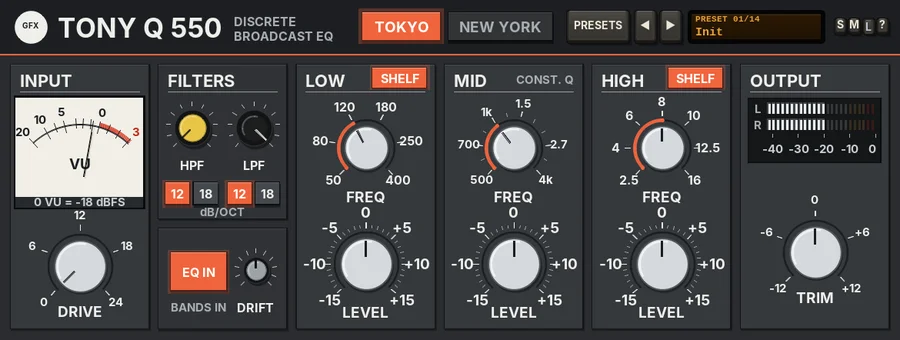
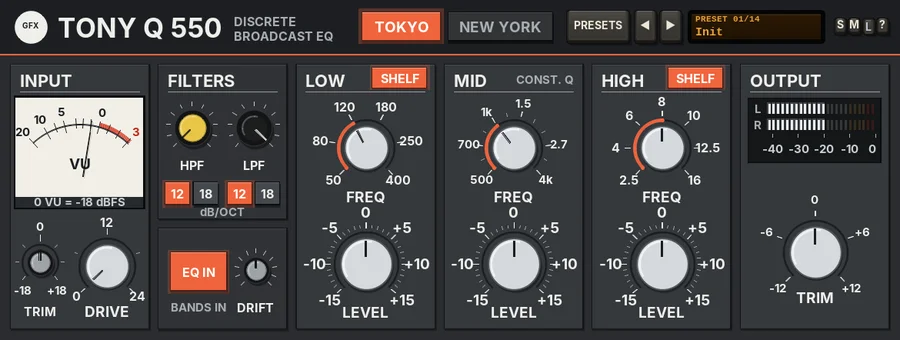
Tony Q 550: INPUT TRIM (-18..+18 dB) before the VU and DRIVE
Appended slider33, 20 ms two-pole glide, small silver cap with a bipolar
ring in the INPUT section. Presets leave it alone; Reset all sets it to 0.
Trim 0 nulls bit-identical against main. Manual and screenshot updated.

Claude-Session: https://claude.ai/code/session_01EwsggPNgywXX6HG8VAWiaU

Changed region(s): [[0.0, 0.6176, 0.1867, 0.9412], [0.0933, 0.3824, 0.1244, 0.4706], [0.0311, 0.6471, 0.0622, 0.6765]]

diff --git a/Manuals/gfx-tony-q-550.html b/Manuals/gfx-tony-q-550.html
@@ -47,8 +47,8 @@ footer{border-top:1px solid var(--line);margin-top:40px;padding:24px 0 40px;colo
 <div class="shot"><img src="img/gfx-tony-q-550.webp" alt="The Tony Q 550 panel" loading="lazy"></div>
 <h2>Overview</h2><p>Tony Q 550 is a channel equaliser with three stepped bands (LOW, MID and HIGH), a high-pass and a low-pass filter, a discrete preamp you can drive and an output stage with real character. Two CITY keys switch between two complete engines, each with its own faceplate and its own settings.</p><p>TOKYO is in the spirit of the Japanese discrete broadcast consoles. Its bells are constant-Q: the width never changes with the gain. The midrange is the star, with twelve steps from 500 Hz to 4 kHz, and it feeds a mid-focused output transformer: only the 400 Hz - 5 kHz part of the signal goes through the iron, so a pushed mid blooms and gently compresses while the kick, the bass and the air stay clean. The faceplate is charcoal with white print.</p><p>NEW YORK is in the spirit of the classic American stepped three-band console EQ. Its bells are proportional-Q: wide and musical at small boosts (about 0.6 at 2 dB), getting narrower as you push them (about 2.5 at 12 dB), on the classic stepped frequency and gain layout. It runs into a fast discrete op-amp, clean until it nears its rails and then a hard knee, and an output transformer that thickens the low end first. Transients come forward and punch. The faceplate is blue-grey with cream print.</p><p>The whole engine runs at twice the sample rate, so the saturation stays clean at the top. Every stepped switch glides to its new value, so nothing clicks as you turn it.</p>
 <h3>Reach for it for</h3><ul class="when"><li>Vocals that need presence and bite without harshness (TOKYO's mids into the iron)</li><li>Guitars and keys that should bloom and sit forward in the midrange</li><li>Punchy kick, snare and bass shaping (NEW YORK)</li><li>Drum buses and mix buses that want a little console weight</li><li>Quick, decisive EQ moves on a stepped layout that is hard to overdo</li><li>Adding colour with INPUT DRIVE, with the EQ flat</li></ul>
-<h2>Controls</h2><h3>The header</h3><dl class="ctl"><dt>TOKYO / NEW YORK</dt><dd>The CITY keys. The lit key is the engine you hear and the faceplate you see. Each city keeps its own settings, so you can set up both and switch to compare. A change starts the other engine, lets it settle for 40 ms and crossfades to it in 30 ms, with no click. The two engines are phase-matched, so the crossfade never combs. TOKYO by default.</dd><dt>PRESETS</dt><dd>Opens the full preset list. The last entry, Reset all to defaults, loads Init and also sets DRIFT to 50%.</dd><dt>◄ / ►</dt><dd>Step to the previous or next preset (wrapping round).</dd><dt>Preset display</dt><dd>Shows the preset number and name. Click it for the preset list too. While you move a control, it shows that control's name and value for a moment.</dd><dt>S / M / L</dt><dd>Panel size: small, medium or large. The panel also scales to fit the plugin window.</dd><dt>?</dt><dd>Opens a pop-up with the design credit, the GFX website address and the address of this manual. Click anywhere to close it.</dd></dl><h3>INPUT</h3><dl class="ctl"><dt>VU</dt><dd>A VU meter on the input, with a real needle (it swings and settles like a moving coil). 0 VU = a sine peaking at -18 dBFS.</dd><dt>DRIVE</dt><dd>INPUT DRIVE: 0 to +24 dB of gain into the engine (0 dB by default). The same amount is taken off again at the end, so DRIVE changes the character, not the loudness - like turning the mic amp up and the fader down. It pushes the discrete preamp (mostly second harmonic, with the peaks tightened), the EQ and the output stage harder. At 0 dB the preamp is out of circuit; it fades in over the first 2 dB. In NEW YORK, a gentle bump of up to +1 dB at 45 Hz also comes in with DRIVE, as the transformer is worked.</dd></dl><h3>FILTERS</h3><p>A high-pass filter before the three bands and a low-pass filter after them. Each city has its own.</p><dl class="ctl"><dt>HPF (yellow cap)</dt><dd>The high-pass corner, 20 - 400 Hz. Fully left reads OFF and takes the filter out of circuit; OFF by default. Switching it in, the corner glides up from below, so there is no thump.</dd><dt>LPF (black cap)</dt><dd>The low-pass corner, 3 - 22 kHz. Fully right reads OFF; OFF by default.</dd><dt>12 / 18 (dB/OCT)</dt><dd>The slope keys under each filter: 12 or 18 dB per octave, both clean Butterworth shapes. 12 by default. Changing slope crossfades in 20 ms.</dd></dl><h3>EQ IN and DRIFT</h3><dl class="ctl"><dt>EQ IN</dt><dd>Switches the three bands in or out (in by default); the caption reads BANDS IN or BANDS OUT. The change glides. The filters, the preamp and the output stage stay in either way, so you hear exactly what the EQ curve is doing.</dd><dt>DRIFT</dt><dd>Component tolerance wander, 0 - 100% (50% is the standard amount and the default). See Drift below.</dd></dl><h3>LOW, MID and HIGH</h3><p>Each band has a stepped frequency switch above a stepped gain switch. The labels and the steps change with the city. A band set to 0 dB is completely out of circuit. On LOW and HIGH, a SHELF key turns the band from a bell into a shelf; on MID the corner reads CONST. Q (TOKYO) or PROP. Q (NEW YORK).</p><dl class="ctl"><dt>FREQ (TOKYO)</dt><dd>LOW: 50, 80, 120, 180, 250 or 400 Hz (120 Hz by default). MID: 500, 600, 700, 800 Hz, 1, 1.2, 1.5, 1.8, 2.2, 2.7, 3.3 or 4 kHz (1 kHz). HIGH: 2.5, 4, 6, 8, 10, 12.5 or 16 kHz (8 kHz).</dd><dt>LEVEL (TOKYO)</dt><dd>-15 to +15 dB in 1 dB steps, 0 dB by default. The bells are constant-Q: LOW and HIGH about 1.4 octaves wide (Q 1.0), MID a little narrower (Q 1.2, about 1.1 octaves), whatever the gain.</dd><dt>FREQUENCY (NEW YORK)</dt><dd>LOW: 50, 100, 200, 300 or 400 Hz (100 Hz by default). MID: 400, 800 Hz, 1.5, 3 or 5 kHz (1.5 kHz). HIGH: 5, 7, 10, 12.5 or 15 kHz (10 kHz).</dd><dt>BOOST / CUT (NEW YORK)</dt><dd>The classic steps: 0, 2, 4, 6, 9 or 12 dB of boost or cut, 0 dB by default. The bells are proportional-Q: a small move is broad and gentle, a big one narrow and focused.</dd><dt>SHELF</dt><dd>LOW and HIGH only, on by default. Lit, the band is a shelf at its frequency; unlit, a bell (TOKYO) or peak (NEW YORK). TOKYO's shelves are smooth, with no overshoot; NEW YORK's have the classic slight dip just beyond the corner and a small bump on the shelf. Switching dips the band out and back in 8 ms, so it does not click.</dd></dl><h3>OUTPUT</h3><dl class="ctl"><dt>Output meter</dt><dd>An LED ladder for the left and right output, -40 to 0 dBFS, with an instant rise and a slow fall.</dd><dt>TRIM</dt><dd>The output level, -12 to +12 dB (0 dB by default). Each city has its own TRIM.</dd></dl><h3>The output stages</h3><p>In TOKYO the signal is split at 400 Hz and 5 kHz by phase-matched crossovers, so the three parts add back up flat. Only the mid part goes through the transformer core: a soft knee, mostly third harmonic with a little second as it is worked, a touch of hysteresis that opens up with level, and a bloom that eases the band down by up to about 1.5 dB when it is pushed. Below the knee it passes untouched. So a mid boost into a hot signal thickens and settles, while the lows and highs stay clean.</p><p>In NEW YORK the discrete op-amp is clean (just a trace of second harmonic) until it nears its rails, then folds over with a hard knee, and a soft slew limit rounds the steepest edges of hot high-frequency peaks. The output transformer saturates on flux, so the low end thickens first.</p><h3>Drift</h3><p>DRIFT lets the components wander slowly, as on two hand-built channels. At 100% each band's frequency wanders by up to about 1.2% and its gain by about 2%, the preamp and op-amp bias moves, and the transformer's saturation point by about 4%. A small fixed mismatch between left and right is added too. At 0% both channels are identical and steady.</p><p>Knobs and switches: drag up or down (Shift for fine moves), use the mouse wheel for one step, and double-click to reset to the default.</p><h3>Latency</h3><p>The twice-the-sample-rate engine adds 47 samples of latency. It is reported to REAPER, which compensates for it.</p>
-<h2>Presets</h2><p>A preset sets one city's DRIVE, bands, filters and TRIM, switches to that city and switches EQ IN on. The other city keeps its settings. DRIFT and the output stage are left as they are.</p><dl class="ctl"><dt>Init</dt><dd>Both cities flat, filters off, TRIM 0 dB, on TOKYO.</dd><dt>Tokyo Vocal Bite</dt><dd>A little drive, a low shelf trimmed at 180 Hz, +5 dB at 2.7 kHz, a +3 dB shelf at 12.5 kHz and the HPF at 90 Hz.</dd><dt>Tokyo Snare Crack</dt><dd>Drive 8 dB, +3 dB at 250 Hz, a dip at 1.5 kHz and +6 dB at 4 kHz, with an 18 dB HPF at 100 Hz.</dd><dt>Tokyo Guitar Bloom</dt><dd>Drive 10 dB into a +6 dB mid at 1 kHz, a cut at 180 Hz, a little top, HPF 80 Hz and LPF 12 kHz.</dd><dt>Tokyo Keys Presence</dt><dd>Gentle: a low shelf trimmed at 120 Hz, +3 dB at 2.2 kHz and a +4 dB shelf at 10 kHz.</dd><dt>Tokyo Bus Gloss</dt><dd>A +2 dB shelf at 50 Hz, a touch out at 800 Hz and a +3 dB shelf at 12.5 kHz, with a little drive.</dd><dt>Tokyo Mid Push</dt><dd>Drive 12 dB and +9 dB at 1.8 kHz: the mid-focused transformer working hard.</dd><dt>New York Kick</dt><dd>+6 dB at 100 Hz, -6 dB at 400 Hz and +4 dB of click at 5 kHz.</dd><dt>New York Snare Snap</dt><dd>Drive 10 dB, +4 dB at 200 Hz, +6 dB at 3 kHz and a +4 dB shelf at 10 kHz, with an 18 dB HPF at 80 Hz.</dd><dt>New York Bass Punch</dt><dd>A +6 dB low shelf at 100 Hz, +2 dB at 800 Hz, a little out at 5 kHz and the LPF at 10 kHz.</dd><dt>New York Vocal</dt><dd>A low shelf trimmed at 200 Hz, +4 dB at 3 kHz and a +4 dB shelf at 10 kHz, HPF 80 Hz.</dd><dt>New York Drum Bus</dt><dd>Drive 9 dB, a +4 dB shelf at 100 Hz, a dip at 800 Hz and a +4 dB shelf at 12.5 kHz.</dd><dt>New York Guitar</dt><dd>Drive 12 dB, a cut at 200 Hz, +4 dB at 3 kHz and +2 dB at 7 kHz, with an 18 dB HPF at 100 Hz and LPF 14 kHz.</dd><dt>New York Air</dt><dd>Just a +6 dB shelf at 15 kHz and a touch of drive.</dd></dl>
-<h2>Tips</h2><ul class="tips"><li>Set up the same move in both cities and flip the CITY keys: TOKYO's mid thickens and settles, NEW YORK's jumps forward.</li><li>On TOKYO, push the MID with a little DRIVE to hear the transformer bloom; the low end stays tight however hard you go.</li><li>On NEW YORK, small boosts are broad and kind - use 2 or 4 dB for tone, 9 or 12 dB to pick out one thing.</li><li>With every band at 0 dB, DRIVE alone is a quick way to add console colour without changing the level.</li><li>Use EQ IN to compare the curve with the colour still in circuit; set TRIM to match the loudness first.</li><li>Set DRIFT to 0 for a static, repeatable EQ; leave it at 50% for a less clinical, hardware-like feel.</li></ul>
+<h2>Controls</h2><h3>The header</h3><dl class="ctl"><dt>TOKYO / NEW YORK</dt><dd>The CITY keys. The lit key is the engine you hear and the faceplate you see. Each city keeps its own settings, so you can set up both and switch to compare. A change starts the other engine, lets it settle for 40 ms and crossfades to it in 30 ms, with no click. The two engines are phase-matched, so the crossfade never combs. TOKYO by default.</dd><dt>PRESETS</dt><dd>Opens the full preset list. The last entry, Reset all to defaults, loads Init and also sets DRIFT to 50% and the input TRIM to 0 dB.</dd><dt>◄ / ►</dt><dd>Step to the previous or next preset (wrapping round).</dd><dt>Preset display</dt><dd>Shows the preset number and name. Click it for the preset list too. While you move a control, it shows that control's name and value for a moment.</dd><dt>S / M / L</dt><dd>Panel size: small, medium or large. The panel also scales to fit the plugin window.</dd><dt>?</dt><dd>Opens a pop-up with the design credit, the GFX website address and the address of this manual. Click anywhere to close it.</dd></dl><h3>INPUT</h3><dl class="ctl"><dt>TRIM (silver cap)</dt><dd>The input trim, -18 to +18 dB (0 dB by default; the 0 dB centre is marked at the top of its ring). It is the very first thing in the signal path, before the VU and DRIVE, so the VU shows the trimmed level: turn a hot source down until the needle swings around 0 VU, or bring a quiet one up. It glides (about 20 ms), so it never zips. It is a gain-staging control, shared by both cities: presets leave it alone (only Reset all to defaults returns it to 0 dB). The value shows while you hover over it.</dd><dt>VU</dt><dd>A VU meter on the input, after the TRIM, with a real needle (it swings and settles like a moving coil). 0 VU = a sine peaking at -18 dBFS.</dd><dt>DRIVE</dt><dd>INPUT DRIVE: 0 to +24 dB of gain into the engine (0 dB by default). The same amount is taken off again at the end, so DRIVE changes the character, not the loudness - like turning the mic amp up and the fader down. It pushes the discrete preamp (mostly second harmonic, with the peaks tightened), the EQ and the output stage harder. At 0 dB the preamp is out of circuit; it fades in over the first 2 dB. In NEW YORK, a gentle bump of up to +1 dB at 45 Hz also comes in with DRIVE, as the transformer is worked.</dd></dl><h3>FILTERS</h3><p>A high-pass filter before the three bands and a low-pass filter after them. Each city has its own.</p><dl class="ctl"><dt>HPF (yellow cap)</dt><dd>The high-pass corner, 20 - 400 Hz. Fully left reads OFF and takes the filter out of circuit; OFF by default. Switching it in, the corner glides up from below, so there is no thump.</dd><dt>LPF (black cap)</dt><dd>The low-pass corner, 3 - 22 kHz. Fully right reads OFF; OFF by default.</dd><dt>12 / 18 (dB/OCT)</dt><dd>The slope keys under each filter: 12 or 18 dB per octave, both clean Butterworth shapes. 12 by default. Changing slope crossfades in 20 ms.</dd></dl><h3>EQ IN and DRIFT</h3><dl class="ctl"><dt>EQ IN</dt><dd>Switches the three bands in or out (in by default); the caption reads BANDS IN or BANDS OUT. The change glides. The filters, the preamp and the output stage stay in either way, so you hear exactly what the EQ curve is doing.</dd><dt>DRIFT</dt><dd>Component tolerance wander, 0 - 100% (50% is the standard amount and the default). See Drift below.</dd></dl><h3>LOW, MID and HIGH</h3><p>Each band has a stepped frequency switch above a stepped gain switch. The labels and the steps change with the city. A band set to 0 dB is completely out of circuit. On LOW and HIGH, a SHELF key turns the band from a bell into a shelf; on MID the corner reads CONST. Q (TOKYO) or PROP. Q (NEW YORK).</p><dl class="ctl"><dt>FREQ (TOKYO)</dt><dd>LOW: 50, 80, 120, 180, 250 or 400 Hz (120 Hz by default). MID: 500, 600, 700, 800 Hz, 1, 1.2, 1.5, 1.8, 2.2, 2.7, 3.3 or 4 kHz (1 kHz). HIGH: 2.5, 4, 6, 8, 10, 12.5 or 16 kHz (8 kHz).</dd><dt>LEVEL (TOKYO)</dt><dd>-15 to +15 dB in 1 dB steps, 0 dB by default. The bells are constant-Q: LOW and HIGH about 1.4 octaves wide (Q 1.0), MID a little narrower (Q 1.2, about 1.1 octaves), whatever the gain.</dd><dt>FREQUENCY (NEW YORK)</dt><dd>LOW: 50, 100, 200, 300 or 400 Hz (100 Hz by default). MID: 400, 800 Hz, 1.5, 3 or 5 kHz (1.5 kHz). HIGH: 5, 7, 10, 12.5 or 15 kHz (10 kHz).</dd><dt>BOOST / CUT (NEW YORK)</dt><dd>The classic steps: 0, 2, 4, 6, 9 or 12 dB of boost or cut, 0 dB by default. The bells are proportional-Q: a small move is broad and gentle, a big one narrow and focused.</dd><dt>SHELF</dt><dd>LOW and HIGH only, on by default. Lit, the band is a shelf at its frequency; unlit, a bell (TOKYO) or peak (NEW YORK). TOKYO's shelves are smooth, with no overshoot; NEW YORK's have the classic slight dip just beyond the corner and a small bump on the shelf. Switching dips the band out and back in 8 ms, so it does not click.</dd></dl><h3>OUTPUT</h3><dl class="ctl"><dt>Output meter</dt><dd>An LED ladder for the left and right output, -40 to 0 dBFS, with an instant rise and a slow fall.</dd><dt>TRIM</dt><dd>The output level, -12 to +12 dB (0 dB by default). Each city has its own TRIM.</dd></dl><h3>The output stages</h3><p>In TOKYO the signal is split at 400 Hz and 5 kHz by phase-matched crossovers, so the three parts add back up flat. Only the mid part goes through the transformer core: a soft knee, mostly third harmonic with a little second as it is worked, a touch of hysteresis that opens up with level, and a bloom that eases the band down by up to about 1.5 dB when it is pushed. Below the knee it passes untouched. So a mid boost into a hot signal thickens and settles, while the lows and highs stay clean.</p><p>In NEW YORK the discrete op-amp is clean (just a trace of second harmonic) until it nears its rails, then folds over with a hard knee, and a soft slew limit rounds the steepest edges of hot high-frequency peaks. The output transformer saturates on flux, so the low end thickens first.</p><h3>Drift</h3><p>DRIFT lets the components wander slowly, as on two hand-built channels. At 100% each band's frequency wanders by up to about 1.2% and its gain by about 2%, the preamp and op-amp bias moves, and the transformer's saturation point by about 4%. A small fixed mismatch between left and right is added too. At 0% both channels are identical and steady.</p><p>Knobs and switches: drag up or down (Shift for fine moves), use the mouse wheel for one step, and double-click to reset to the default.</p><h3>Latency</h3><p>The twice-the-sample-rate engine adds 47 samples of latency. It is reported to REAPER, which compensates for it.</p>
+<h2>Presets</h2><p>A preset sets one city's DRIVE, bands, filters and TRIM, switches to that city and switches EQ IN on. The other city keeps its settings. DRIFT, the input TRIM and the output stage are left as they are.</p><dl class="ctl"><dt>Init</dt><dd>Both cities flat, filters off, output TRIM 0 dB, on TOKYO.</dd><dt>Tokyo Vocal Bite</dt><dd>A little drive, a low shelf trimmed at 180 Hz, +5 dB at 2.7 kHz, a +3 dB shelf at 12.5 kHz and the HPF at 90 Hz.</dd><dt>Tokyo Snare Crack</dt><dd>Drive 8 dB, +3 dB at 250 Hz, a dip at 1.5 kHz and +6 dB at 4 kHz, with an 18 dB HPF at 100 Hz.</dd><dt>Tokyo Guitar Bloom</dt><dd>Drive 10 dB into a +6 dB mid at 1 kHz, a cut at 180 Hz, a little top, HPF 80 Hz and LPF 12 kHz.</dd><dt>Tokyo Keys Presence</dt><dd>Gentle: a low shelf trimmed at 120 Hz, +3 dB at 2.2 kHz and a +4 dB shelf at 10 kHz.</dd><dt>Tokyo Bus Gloss</dt><dd>A +2 dB shelf at 50 Hz, a touch out at 800 Hz and a +3 dB shelf at 12.5 kHz, with a little drive.</dd><dt>Tokyo Mid Push</dt><dd>Drive 12 dB and +9 dB at 1.8 kHz: the mid-focused transformer working hard.</dd><dt>New York Kick</dt><dd>+6 dB at 100 Hz, -6 dB at 400 Hz and +4 dB of click at 5 kHz.</dd><dt>New York Snare Snap</dt><dd>Drive 10 dB, +4 dB at 200 Hz, +6 dB at 3 kHz and a +4 dB shelf at 10 kHz, with an 18 dB HPF at 80 Hz.</dd><dt>New York Bass Punch</dt><dd>A +6 dB low shelf at 100 Hz, +2 dB at 800 Hz, a little out at 5 kHz and the LPF at 10 kHz.</dd><dt>New York Vocal</dt><dd>A low shelf trimmed at 200 Hz, +4 dB at 3 kHz and a +4 dB shelf at 10 kHz, HPF 80 Hz.</dd><dt>New York Drum Bus</dt><dd>Drive 9 dB, a +4 dB shelf at 100 Hz, a dip at 800 Hz and a +4 dB shelf at 12.5 kHz.</dd><dt>New York Guitar</dt><dd>Drive 12 dB, a cut at 200 Hz, +4 dB at 3 kHz and +2 dB at 7 kHz, with an 18 dB HPF at 100 Hz and LPF 14 kHz.</dd><dt>New York Air</dt><dd>Just a +6 dB shelf at 15 kHz and a touch of drive.</dd></dl>
+<h2>Tips</h2><ul class="tips"><li>Gain-stage first: if the VU is pinned, pull the input TRIM down until the needle swings around 0 VU, then set DRIVE by ear.</li><li>Set up the same move in both cities and flip the CITY keys: TOKYO's mid thickens and settles, NEW YORK's jumps forward.</li><li>On TOKYO, push the MID with a little DRIVE to hear the transformer bloom; the low end stays tight however hard you go.</li><li>On NEW YORK, small boosts are broad and kind - use 2 or 4 dB for tone, 9 or 12 dB to pick out one thing.</li><li>With every band at 0 dB, DRIVE alone is a quick way to add console colour without changing the level.</li><li>Use EQ IN to compare the curve with the colour still in circuit; set TRIM to match the loudness first.</li><li>Set DRIFT to 0 for a static, repeatable EQ; leave it at 50% for a less clinical, hardware-like feel.</li></ul>
 <p class="file">File: gfx-tony-q-550.jsfx</p></section></main>
 <footer><div class="wrap">GFX (Garden FX) - free JSFX plug-ins for REAPER. Designed by JGWizrad. <a href="https://www.gardenfx.uk/">https://www.gardenfx.uk/</a></div></footer></body></html>

diff --git a/Manuals/all.html b/Manuals/all.html
@@ -801,9 +801,9 @@ footer{border-top:1px solid var(--line);margin-top:40px;padding:24px 0 40px;colo
 <div class="shot"><img src="img/gfx-tony-q-550.webp" alt="The Tony Q 550 panel" loading="lazy"></div>
 <h2>Overview</h2><p>Tony Q 550 is a channel equaliser with three stepped bands (LOW, MID and HIGH), a high-pass and a low-pass filter, a discrete preamp you can drive and an output stage with real character. Two CITY keys switch between two complete engines, each with its own faceplate and its own settings.</p><p>TOKYO is in the spirit of the Japanese discrete broadcast consoles. Its bells are constant-Q: the width never changes with the gain. The midrange is the star, with twelve steps from 500 Hz to 4 kHz, and it feeds a mid-focused output transformer: only the 400 Hz - 5 kHz part of the signal goes through the iron, so a pushed mid blooms and gently compresses while the kick, the bass and the air stay clean. The faceplate is charcoal with white print.</p><p>NEW YORK is in the spirit of the classic American stepped three-band console EQ. Its bells are proportional-Q: wide and musical at small boosts (about 0.6 at 2 dB), getting narrower as you push them (about 2.5 at 12 dB), on the classic stepped frequency and gain layout. It runs into a fast discrete op-amp, clean until it nears its rails and then a hard knee, and an output transformer that thickens the low end first. Transients come forward and punch. The faceplate is blue-grey with cream print.</p><p>The whole engine runs at twice the sample rate, so the saturation stays clean at the top. Every stepped switch glides to its new value, so nothing clicks as you turn it.</p>
 <h3>Reach for it for</h3><ul class="when"><li>Vocals that need presence and bite without harshness (TOKYO's mids into the iron)</li><li>Guitars and keys that should bloom and sit forward in the midrange</li><li>Punchy kick, snare and bass shaping (NEW YORK)</li><li>Drum buses and mix buses that want a little console weight</li><li>Quick, decisive EQ moves on a stepped layout that is hard to overdo</li><li>Adding colour with INPUT DRIVE, with the EQ flat</li></ul>
-<h2>Controls</h2><h3>The header</h3><dl class="ctl"><dt>TOKYO / NEW YORK</dt><dd>The CITY keys. The lit key is the engine you hear and the faceplate you see. Each city keeps its own settings, so you can set up both and switch to compare. A change starts the other engine, lets it settle for 40 ms and crossfades to it in 30 ms, with no click. The two engines are phase-matched, so the crossfade never combs. TOKYO by default.</dd><dt>PRESETS</dt><dd>Opens the full preset list. The last entry, Reset all to defaults, loads Init and also sets DRIFT to 50%.</dd><dt>◄ / ►</dt><dd>Step to the previous or next preset (wrapping round).</dd><dt>Preset display</dt><dd>Shows the preset number and name. Click it for the preset list too. While you move a control, it shows that control's name and value for a moment.</dd><dt>S / M / L</dt><dd>Panel size: small, medium or large. The panel also scales to fit the plugin window.</dd><dt>?</dt><dd>Opens a pop-up with the design credit, the GFX website address and the address of this manual. Click anywhere to close it.</dd></dl><h3>INPUT</h3><dl class="ctl"><dt>VU</dt><dd>A VU meter on the input, with a real needle (it swings and settles like a moving coil). 0 VU = a sine peaking at -18 dBFS.</dd><dt>DRIVE</dt><dd>INPUT DRIVE: 0 to +24 dB of gain into the engine (0 dB by default). The same amount is taken off again at the end, so DRIVE changes the character, not the loudness - like turning the mic amp up and the fader down. It pushes the discrete preamp (mostly second harmonic, with the peaks tightened), the EQ and the output stage harder. At 0 dB the preamp is out of circuit; it fades in over the first 2 dB. In NEW YORK, a gentle bump of up to +1 dB at 45 Hz also comes in with DRIVE, as the transformer is worked.</dd></dl><h3>FILTERS</h3><p>A high-pass filter before the three bands and a low-pass filter after them. Each city has its own.</p><dl class="ctl"><dt>HPF (yellow cap)</dt><dd>The high-pass corner, 20 - 400 Hz. Fully left reads OFF and takes the filter out of circuit; OFF by default. Switching it in, the corner glides up from below, so there is no thump.</dd><dt>LPF (black cap)</dt><dd>The low-pass corner, 3 - 22 kHz. Fully right reads OFF; OFF by default.</dd><dt>12 / 18 (dB/OCT)</dt><dd>The slope keys under each filter: 12 or 18 dB per octave, both clean Butterworth shapes. 12 by default. Changing slope crossfades in 20 ms.</dd></dl><h3>EQ IN and DRIFT</h3><dl class="ctl"><dt>EQ IN</dt><dd>Switches the three bands in or out (in by default); the caption reads BANDS IN or BANDS OUT. The change glides. The filters, the preamp and the output stage stay in either way, so you hear exactly what the EQ curve is doing.</dd><dt>DRIFT</dt><dd>Component tolerance wander, 0 - 100% (50% is the standard amount and the default). See Drift below.</dd></dl><h3>LOW, MID and HIGH</h3><p>Each band has a stepped frequency switch above a stepped gain switch. The labels and the steps change with the city. A band set to 0 dB is completely out of circuit. On LOW and HIGH, a SHELF key turns the band from a bell into a shelf; on MID the corner reads CONST. Q (TOKYO) or PROP. Q (NEW YORK).</p><dl class="ctl"><dt>FREQ (TOKYO)</dt><dd>LOW: 50, 80, 120, 180, 250 or 400 Hz (120 Hz by default). MID: 500, 600, 700, 800 Hz, 1, 1.2, 1.5, 1.8, 2.2, 2.7, 3.3 or 4 kHz (1 kHz). HIGH: 2.5, 4, 6, 8, 10, 12.5 or 16 kHz (8 kHz).</dd><dt>LEVEL (TOKYO)</dt><dd>-15 to +15 dB in 1 dB steps, 0 dB by default. The bells are constant-Q: LOW and HIGH about 1.4 octaves wide (Q 1.0), MID a little narrower (Q 1.2, about 1.1 octaves), whatever the gain.</dd><dt>FREQUENCY (NEW YORK)</dt><dd>LOW: 50, 100, 200, 300 or 400 Hz (100 Hz by default). MID: 400, 800 Hz, 1.5, 3 or 5 kHz (1.5 kHz). HIGH: 5, 7, 10, 12.5 or 15 kHz (10 kHz).</dd><dt>BOOST / CUT (NEW YORK)</dt><dd>The classic steps: 0, 2, 4, 6, 9 or 12 dB of boost or cut, 0 dB by default. The bells are proportional-Q: a small move is broad and gentle, a big one narrow and focused.</dd><dt>SHELF</dt><dd>LOW and HIGH only, on by default. Lit, the band is a shelf at its frequency; unlit, a bell (TOKYO) or peak (NEW YORK). TOKYO's shelves are smooth, with no overshoot; NEW YORK's have the classic slight dip just beyond the corner and a small bump on the shelf. Switching dips the band out and back in 8 ms, so it does not click.</dd></dl><h3>OUTPUT</h3><dl class="ctl"><dt>Output meter</dt><dd>An LED ladder for the left and right output, -40 to 0 dBFS, with an instant rise and a slow fall.</dd><dt>TRIM</dt><dd>The output level, -12 to +12 dB (0 dB by default). Each city has its own TRIM.</dd></dl><h3>The output stages</h3><p>In TOKYO the signal is split at 400 Hz and 5 kHz by phase-matched crossovers, so the three parts add back up flat. Only the mid part goes through the transformer core: a soft knee, mostly third harmonic with a little second as it is worked, a touch of hysteresis that opens up with level, and a bloom that eases the band down by up to about 1.5 dB when it is pushed. Below the knee it passes untouched. So a mid boost into a hot signal thickens and settles, while the lows and highs stay clean.</p><p>In NEW YORK the discrete op-amp is clean (just a trace of second harmonic) until it nears its rails, then folds over with a hard knee, and a soft slew limit rounds the steepest edges of hot high-frequency peaks. The output transformer saturates on flux, so the low end thickens first.</p><h3>Drift</h3><p>DRIFT lets the components wander slowly, as on two hand-built channels. At 100% each band's frequency wanders by up to about 1.2% and its gain by about 2%, the preamp and op-amp bias moves, and the transformer's saturation point by about 4%. A small fixed mismatch between left and right is added too. At 0% both channels are identical and steady.</p><p>Knobs and switches: drag up or down (Shift for fine moves), use the mouse wheel for one step, and double-click to reset to the default.</p><h3>Latency</h3><p>The twice-the-sample-rate engine adds 47 samples of latency. It is reported to REAPER, which compensates for it.</p>
-<h2>Presets</h2><p>A preset sets one city's DRIVE, bands, filters and TRIM, switches to that city and switches EQ IN on. The other city keeps its settings. DRIFT and the output stage are left as they are.</p><dl class="ctl"><dt>Init</dt><dd>Both cities flat, filters off, TRIM 0 dB, on TOKYO.</dd><dt>Tokyo Vocal Bite</dt><dd>A little drive, a low shelf trimmed at 180 Hz, +5 dB at 2.7 kHz, a +3 dB shelf at 12.5 kHz and the HPF at 90 Hz.</dd><dt>Tokyo Snare Crack</dt><dd>Drive 8 dB, +3 dB at 250 Hz, a dip at 1.5 kHz and +6 dB at 4 kHz, with an 18 dB HPF at 100 Hz.</dd><dt>Tokyo Guitar Bloom</dt><dd>Drive 10 dB into a +6 dB mid at 1 kHz, a cut at 180 Hz, a little top, HPF 80 Hz and LPF 12 kHz.</dd><dt>Tokyo Keys Presence</dt><dd>Gentle: a low shelf trimmed at 120 Hz, +3 dB at 2.2 kHz and a +4 dB shelf at 10 kHz.</dd><dt>Tokyo Bus Gloss</dt><dd>A +2 dB shelf at 50 Hz, a touch out at 800 Hz and a +3 dB shelf at 12.5 kHz, with a little drive.</dd><dt>Tokyo Mid Push</dt><dd>Drive 12 dB and +9 dB at 1.8 kHz: the mid-focused transformer working hard.</dd><dt>New York Kick</dt><dd>+6 dB at 100 Hz, -6 dB at 400 Hz and +4 dB of click at 5 kHz.</dd><dt>New York Snare Snap</dt><dd>Drive 10 dB, +4 dB at 200 Hz, +6 dB at 3 kHz and a +4 dB shelf at 10 kHz, with an 18 dB HPF at 80 Hz.</dd><dt>New York Bass Punch</dt><dd>A +6 dB low shelf at 100 Hz, +2 dB at 800 Hz, a little out at 5 kHz and the LPF at 10 kHz.</dd><dt>New York Vocal</dt><dd>A low shelf trimmed at 200 Hz, +4 dB at 3 kHz and a +4 dB shelf at 10 kHz, HPF 80 Hz.</dd><dt>New York Drum Bus</dt><dd>Drive 9 dB, a +4 dB shelf at 100 Hz, a dip at 800 Hz and a +4 dB shelf at 12.5 kHz.</dd><dt>New York Guitar</dt><dd>Drive 12 dB, a cut at 200 Hz, +4 dB at 3 kHz and +2 dB at 7 kHz, with an 18 dB HPF at 100 Hz and LPF 14 kHz.</dd><dt>New York Air</dt><dd>Just a +6 dB shelf at 15 kHz and a touch of drive.</dd></dl>
-<h2>Tips</h2><ul class="tips"><li>Set up the same move in both cities and flip the CITY keys: TOKYO's mid thickens and settles, NEW YORK's jumps forward.</li><li>On TOKYO, push the MID with a little DRIVE to hear the transformer bloom; the low end stays tight however hard you go.</li><li>On NEW YORK, small boosts are broad and kind - use 2 or 4 dB for tone, 9 or 12 dB to pick out one thing.</li><li>With every band at 0 dB, DRIVE alone is a quick way to add console colour without changing the level.</li><li>Use EQ IN to compare the curve with the colour still in circuit; set TRIM to match the loudness first.</li><li>Set DRIFT to 0 for a static, repeatable EQ; leave it at 50% for a less clinical, hardware-like feel.</li></ul>
+<h2>Controls</h2><h3>The header</h3><dl class="ctl"><dt>TOKYO / NEW YORK</dt><dd>The CITY keys. The lit key is the engine you hear and the faceplate you see. Each city keeps its own settings, so you can set up both and switch to compare. A change starts the other engine, lets it settle for 40 ms and crossfades to it in 30 ms, with no click. The two engines are phase-matched, so the crossfade never combs. TOKYO by default.</dd><dt>PRESETS</dt><dd>Opens the full preset list. The last entry, Reset all to defaults, loads Init and also sets DRIFT to 50% and the input TRIM to 0 dB.</dd><dt>◄ / ►</dt><dd>Step to the previous or next preset (wrapping round).</dd><dt>Preset display</dt><dd>Shows the preset number and name. Click it for the preset list too. While you move a control, it shows that control's name and value for a moment.</dd><dt>S / M / L</dt><dd>Panel size: small, medium or large. The panel also scales to fit the plugin window.</dd><dt>?</dt><dd>Opens a pop-up with the design credit, the GFX website address and the address of this manual. Click anywhere to close it.</dd></dl><h3>INPUT</h3><dl class="ctl"><dt>TRIM (silver cap)</dt><dd>The input trim, -18 to +18 dB (0 dB by default; the 0 dB centre is marked at the top of its ring). It is the very first thing in the signal path, before the VU and DRIVE, so the VU shows the trimmed level: turn a hot source down until the needle swings around 0 VU, or bring a quiet one up. It glides (about 20 ms), so it never zips. It is a gain-staging control, shared by both cities: presets leave it alone (only Reset all to defaults returns it to 0 dB). The value shows while you hover over it.</dd><dt>VU</dt><dd>A VU meter on the input, after the TRIM, with a real needle (it swings and settles like a moving coil). 0 VU = a sine peaking at -18 dBFS.</dd><dt>DRIVE</dt><dd>INPUT DRIVE: 0 to +24 dB of gain into the engine (0 dB by default). The same amount is taken off again at the end, so DRIVE changes the character, not the loudness - like turning the mic amp up and the fader down. It pushes the discrete preamp (mostly second harmonic, with the peaks tightened), the EQ and the output stage harder. At 0 dB the preamp is out of circuit; it fades in over the first 2 dB. In NEW YORK, a gentle bump of up to +1 dB at 45 Hz also comes in with DRIVE, as the transformer is worked.</dd></dl><h3>FILTERS</h3><p>A high-pass filter before the three bands and a low-pass filter after them. Each city has its own.</p><dl class="ctl"><dt>HPF (yellow cap)</dt><dd>The high-pass corner, 20 - 400 Hz. Fully left reads OFF and takes the filter out of circuit; OFF by default. Switching it in, the corner glides up from below, so there is no thump.</dd><dt>LPF (black cap)</dt><dd>The low-pass corner, 3 - 22 kHz. Fully right reads OFF; OFF by default.</dd><dt>12 / 18 (dB/OCT)</dt><dd>The slope keys under each filter: 12 or 18 dB per octave, both clean Butterworth shapes. 12 by default. Changing slope crossfades in 20 ms.</dd></dl><h3>EQ IN and DRIFT</h3><dl class="ctl"><dt>EQ IN</dt><dd>Switches the three bands in or out (in by default); the caption reads BANDS IN or BANDS OUT. The change glides. The filters, the preamp and the output stage stay in either way, so you hear exactly what the EQ curve is doing.</dd><dt>DRIFT</dt><dd>Component tolerance wander, 0 - 100% (50% is the standard amount and the default). See Drift below.</dd></dl><h3>LOW, MID and HIGH</h3><p>Each band has a stepped frequency switch above a stepped gain switch. The labels and the steps change with the city. A band set to 0 dB is completely out of circuit. On LOW and HIGH, a SHELF key turns the band from a bell into a shelf; on MID the corner reads CONST. Q (TOKYO) or PROP. Q (NEW YORK).</p><dl class="ctl"><dt>FREQ (TOKYO)</dt><dd>LOW: 50, 80, 120, 180, 250 or 400 Hz (120 Hz by default). MID: 500, 600, 700, 800 Hz, 1, 1.2, 1.5, 1.8, 2.2, 2.7, 3.3 or 4 kHz (1 kHz). HIGH: 2.5, 4, 6, 8, 10, 12.5 or 16 kHz (8 kHz).</dd><dt>LEVEL (TOKYO)</dt><dd>-15 to +15 dB in 1 dB steps, 0 dB by default. The bells are constant-Q: LOW and HIGH about 1.4 octaves wide (Q 1.0), MID a little narrower (Q 1.2, about 1.1 octaves), whatever the gain.</dd><dt>FREQUENCY (NEW YORK)</dt><dd>LOW: 50, 100, 200, 300 or 400 Hz (100 Hz by default). MID: 400, 800 Hz, 1.5, 3 or 5 kHz (1.5 kHz). HIGH: 5, 7, 10, 12.5 or 15 kHz (10 kHz).</dd><dt>BOOST / CUT (NEW YORK)</dt><dd>The classic steps: 0, 2, 4, 6, 9 or 12 dB of boost or cut, 0 dB by default. The bells are proportional-Q: a small move is broad and gentle, a big one narrow and focused.</dd><dt>SHELF</dt><dd>LOW and HIGH only, on by default. Lit, the band is a shelf at its frequency; unlit, a bell (TOKYO) or peak (NEW YORK). TOKYO's shelves are smooth, with no overshoot; NEW YORK's have the classic slight dip just beyond the corner and a small bump on the shelf. Switching dips the band out and back in 8 ms, so it does not click.</dd></dl><h3>OUTPUT</h3><dl class="ctl"><dt>Output meter</dt><dd>An LED ladder for the left and right output, -40 to 0 dBFS, with an instant rise and a slow fall.</dd><dt>TRIM</dt><dd>The output level, -12 to +12 dB (0 dB by default). Each city has its own TRIM.</dd></dl><h3>The output stages</h3><p>In TOKYO the signal is split at 400 Hz and 5 kHz by phase-matched crossovers, so the three parts add back up flat. Only the mid part goes through the transformer core: a soft knee, mostly third harmonic with a little second as it is worked, a touch of hysteresis that opens up with level, and a bloom that eases the band down by up to about 1.5 dB when it is pushed. Below the knee it passes untouched. So a mid boost into a hot signal thickens and settles, while the lows and highs stay clean.</p><p>In NEW YORK the discrete op-amp is clean (just a trace of second harmonic) until it nears its rails, then folds over with a hard knee, and a soft slew limit rounds the steepest edges of hot high-frequency peaks. The output transformer saturates on flux, so the low end thickens first.</p><h3>Drift</h3><p>DRIFT lets the components wander slowly, as on two hand-built channels. At 100% each band's frequency wanders by up to about 1.2% and its gain by about 2%, the preamp and op-amp bias moves, and the transformer's saturation point by about 4%. A small fixed mismatch between left and right is added too. At 0% both channels are identical and steady.</p><p>Knobs and switches: drag up or down (Shift for fine moves), use the mouse wheel for one step, and double-click to reset to the default.</p><h3>Latency</h3><p>The twice-the-sample-rate engine adds 47 samples of latency. It is reported to REAPER, which compensates for it.</p>
+<h2>Presets</h2><p>A preset sets one city's DRIVE, bands, filters and TRIM, switches to that city and switches EQ IN on. The other city keeps its settings. DRIFT, the input TRIM and the output stage are left as they are.</p><dl class="ctl"><dt>Init</dt><dd>Both cities flat, filters off, output TRIM 0 dB, on TOKYO.</dd><dt>Tokyo Vocal Bite</dt><dd>A little drive, a low shelf trimmed at 180 Hz, +5 dB at 2.7 kHz, a +3 dB shelf at 12.5 kHz and the HPF at 90 Hz.</dd><dt>Tokyo Snare Crack</dt><dd>Drive 8 dB, +3 dB at 250 Hz, a dip at 1.5 kHz and +6 dB at 4 kHz, with an 18 dB HPF at 100 Hz.</dd><dt>Tokyo Guitar Bloom</dt><dd>Drive 10 dB into a +6 dB mid at 1 kHz, a cut at 180 Hz, a little top, HPF 80 Hz and LPF 12 kHz.</dd><dt>Tokyo Keys Presence</dt><dd>Gentle: a low shelf trimmed at 120 Hz, +3 dB at 2.2 kHz and a +4 dB shelf at 10 kHz.</dd><dt>Tokyo Bus Gloss</dt><dd>A +2 dB shelf at 50 Hz, a touch out at 800 Hz and a +3 dB shelf at 12.5 kHz, with a little drive.</dd><dt>Tokyo Mid Push</dt><dd>Drive 12 dB and +9 dB at 1.8 kHz: the mid-focused transformer working hard.</dd><dt>New York Kick</dt><dd>+6 dB at 100 Hz, -6 dB at 400 Hz and +4 dB of click at 5 kHz.</dd><dt>New York Snare Snap</dt><dd>Drive 10 dB, +4 dB at 200 Hz, +6 dB at 3 kHz and a +4 dB shelf at 10 kHz, with an 18 dB HPF at 80 Hz.</dd><dt>New York Bass Punch</dt><dd>A +6 dB low shelf at 100 Hz, +2 dB at 800 Hz, a little out at 5 kHz and the LPF at 10 kHz.</dd><dt>New York Vocal</dt><dd>A low shelf trimmed at 200 Hz, +4 dB at 3 kHz and a +4 dB shelf at 10 kHz, HPF 80 Hz.</dd><dt>New York Drum Bus</dt><dd>Drive 9 dB, a +4 dB shelf at 100 Hz, a dip at 800 Hz and a +4 dB shelf at 12.5 kHz.</dd><dt>New York Guitar</dt><dd>Drive 12 dB, a cut at 200 Hz, +4 dB at 3 kHz and +2 dB at 7 kHz, with an 18 dB HPF at 100 Hz and LPF 14 kHz.</dd><dt>New York Air</dt><dd>Just a +6 dB shelf at 15 kHz and a touch of drive.</dd></dl>
+<h2>Tips</h2><ul class="tips"><li>Gain-stage first: if the VU is pinned, pull the input TRIM down until the needle swings around 0 VU, then set DRIVE by ear.</li><li>Set up the same move in both cities and flip the CITY keys: TOKYO's mid thickens and settles, NEW YORK's jumps forward.</li><li>On TOKYO, push the MID with a little DRIVE to hear the transformer bloom; the low end stays tight however hard you go.</li><li>On NEW YORK, small boosts are broad and kind - use 2 or 4 dB for tone, 9 or 12 dB to pick out one thing.</li><li>With every band at 0 dB, DRIVE alone is a quick way to add console colour without changing the level.</li><li>Use EQ IN to compare the curve with the colour still in circuit; set TRIM to match the loudness first.</li><li>Set DRIFT to 0 for a static, repeatable EQ; leave it at 50% for a less clinical, hardware-like feel.</li></ul>
 <p class="file">File: gfx-tony-q-550.jsfx</p></section>
 <section class="manual" id="gfx-transeq">
 <div class="cat">EQ &amp; filters</div><h1>TransEQ</h1>
